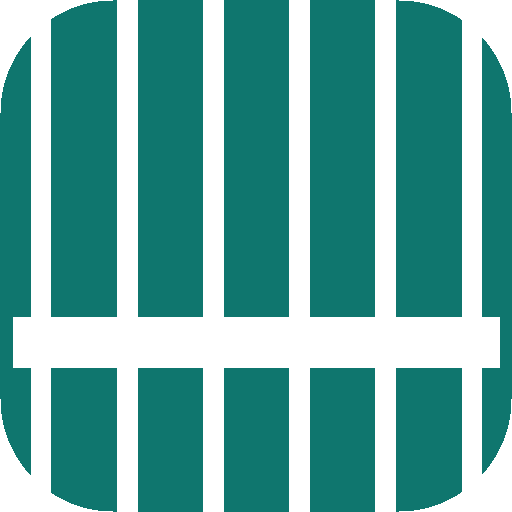
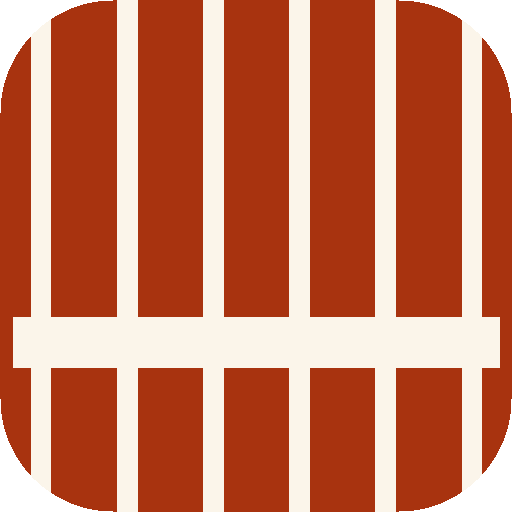
feat(web): icones PWA na paleta Cedro e Cobre; fecha F1-16

diff --git a/task_state.md b/task_state.md
@@ -5,7 +5,7 @@
 
 **Última atualização:** 2026-11-15
 **Fase atual:** F1 — Núcleo do produto (F0 concluída)
-**Próxima tarefa:** F1-16 (identidade visual), depois F1-04 e F1-09. Aguarda verificação do usuário: F1-16 (visual)
+**Próxima tarefa:** F1-04 (player de lição), depois F1-09, F1-03, F1-05. F1-15 só com go-ahead do usuário
 **Ambiente:** VM dev (Oracle 19c local) · VM prod: ainda não provisionada
 
 ## Regras de uso
@@ -32,7 +32,7 @@
 - [x] F1-01 `pedagogy-content` Schema Zod de lição/exercício em `packages/content` + validador (`content:validate`). ADR-0002: o catálogo deve expor XP por lição, número de exercícios e estado "aposentado" (VL-0017)
 - [x] F1-02 `frontend-ui` Componente `ChordDiagram` (SVG, suporte a canhoto, pestana, X/O) (VL-0018, verificado pelo usuário)
 - [ ] F1-03 `frontend-ui` Componente `Fretboard` interativo (tocar casas para montar acorde)
-- [~] F1-16 `frontend-ui` Identidade visual e design system: paleta própria em CSS vars (claro/escuro, contraste forte), tipografia marcante, escala de espaçamento/raio/sombra, UMA abertura de página coreografada, primeiros blocos reutilizáveis (botão, card, barra de progresso, selo de XP). Diretriz do usuário em 2026-11-15 (.claude/agents/frontend-ui.md, "Direção visual"). Precede F1-04 e F1-09; começa depois da F1-14 (VL-0021, aguarda verificação visual do usuário; falta regerar ícones PWA)
+- [x] F1-16 `frontend-ui` Identidade visual e design system: paleta própria em CSS vars (claro/escuro, contraste forte), tipografia marcante, escala de espaçamento/raio/sombra, UMA abertura de página coreografada, primeiros blocos reutilizáveis (botão, card, barra de progresso, selo de XP). Diretriz do usuário em 2026-11-15 (.claude/agents/frontend-ui.md, "Direção visual"). Precede F1-04 e F1-09; começa depois da F1-14 (VL-0021, aprovado pelo usuário, ícones PWA regerados)
 - [ ] F1-04 `frontend-ui` Player de lição: máquina de estados, feedback, barra de progresso, tela de resultado (XP)
 - [ ] F1-05 `frontend-ui` Tipos de exercício: múltipla escolha, associar pares, ordenar, montar acorde, "praticou no violão?" (auto-avaliação)
 - [ ] F1-06 `backend-api` Auth (e-mail + senha com argon2, sessão por cookie httpOnly) e modo convidado
@@ -96,7 +96,7 @@ _Nenhum._
 - **Ambiente:** stack dev no ar (`HTTP_PORT=8088 HTTPS_PORT=8443 docker compose -f compose.yaml -f compose.dev.yaml up -d`); web em `http://192.168.20.234:5173`, galeria em `/dev/acordes`. Portas 80/443 e os containers `arasuper-app` e `proxy-nginx` são do usuário: não tocar. Node local 20 (projeto exige 24: CI e Docker usam 24). pnpm em `~/.local/bin`.
 - **Segredos:** `.env` e `.mcp.json` são do usuário e ficam fora do git; nunca ler nem imprimir valores. Testar o CI sempre com o `.env.example`.
 - **Repositório:** `git@github.com:feliperaac/cifrAI.git` (público), branch `main`. Todo push de código dispara o CI e publica imagens no GHCR; commits só de `*.md` e `docs/**` não disparam.
-- **Em andamento:** F1-16 (implementada, aguarda olhar do usuário; ícones PWA a regerar); F1-14 concluída (VL-0020). Próximo VL: 0022.
+- **Em andamento:** F1-04. Próximo VL: 0022.
 - **Aguardam o usuário:** F1-02 (olhar a galeria em 360×640, temas claro/escuro, destro/canhoto), F1-13 (ouvir a v2 do som; parâmetros em `apps/web/src/audio/karplusStrong.ts`; plano B: amostras CC0 com licença verificada; o site Musicca foi DESCARTADO), decisões de F1-01 (teto de XP 100, categorias de lição, XP por exercício, mínimo de exercícios).
 - **Próximas:** F1-16 (identidade visual, precede F1-04 e F1-09), F1-15 (quizzes de identificar acorde), depois F1-03, F1-04, F1-05.
 - **Memórias do projeto** em `~/.claude/projects/-home-felipe-projetos-pessoal-cifrai/memory/` (fuso Rio Branco, CI, stack no ar, referência Duolingo, direção de design).

diff --git a/validation_log.md b/validation_log.md
@@ -340,3 +340,7 @@
 - **Resultado:** ✅ JS inicial ≈87 kB gzip (orçamento 200 KB), CSS 4,96 kB gzip, precache 18 entradas/368 KiB com woff2
 - **NÃO VERIFICADO:** aparência real (abertura, fontes carregando, hover/pressed), contraste dos estados hover (`filter: brightness`), Android, Lighthouse/LCP, teclado e leitor de tela, service worker em runtime
 - **Decisões/pendências:** o usuário aprovou a direção A por "pode continuar" à recomendação (trocar para B é nova rodada); ícones PWA ainda na cor teal antiga (regerar); `BottomNav` e `ThemeSwitcher` só herdam os tokens; o usuário precisa olhar `http://192.168.20.234:5173/` e `/dev/acordes` nos dois temas, em 360×640
+
+### VL-0021 — adendo (2026-11-15)
+- **Verificação visual do usuário:** "tudo certo" sobre abertura, fontes, blocos e diagrama na identidade A.
+- **Ícones PWA regerados** com `pnpm --filter @cifrai/web icons` (fundo cobre `#a8330f`, traço creme `#fbf5ea`; `favicon.svg` igual). Conferi o `icon-512.png` visualmente: cores corretas; arte (6 cordas e uma casa) é a original. `format:check` e build web OK.
